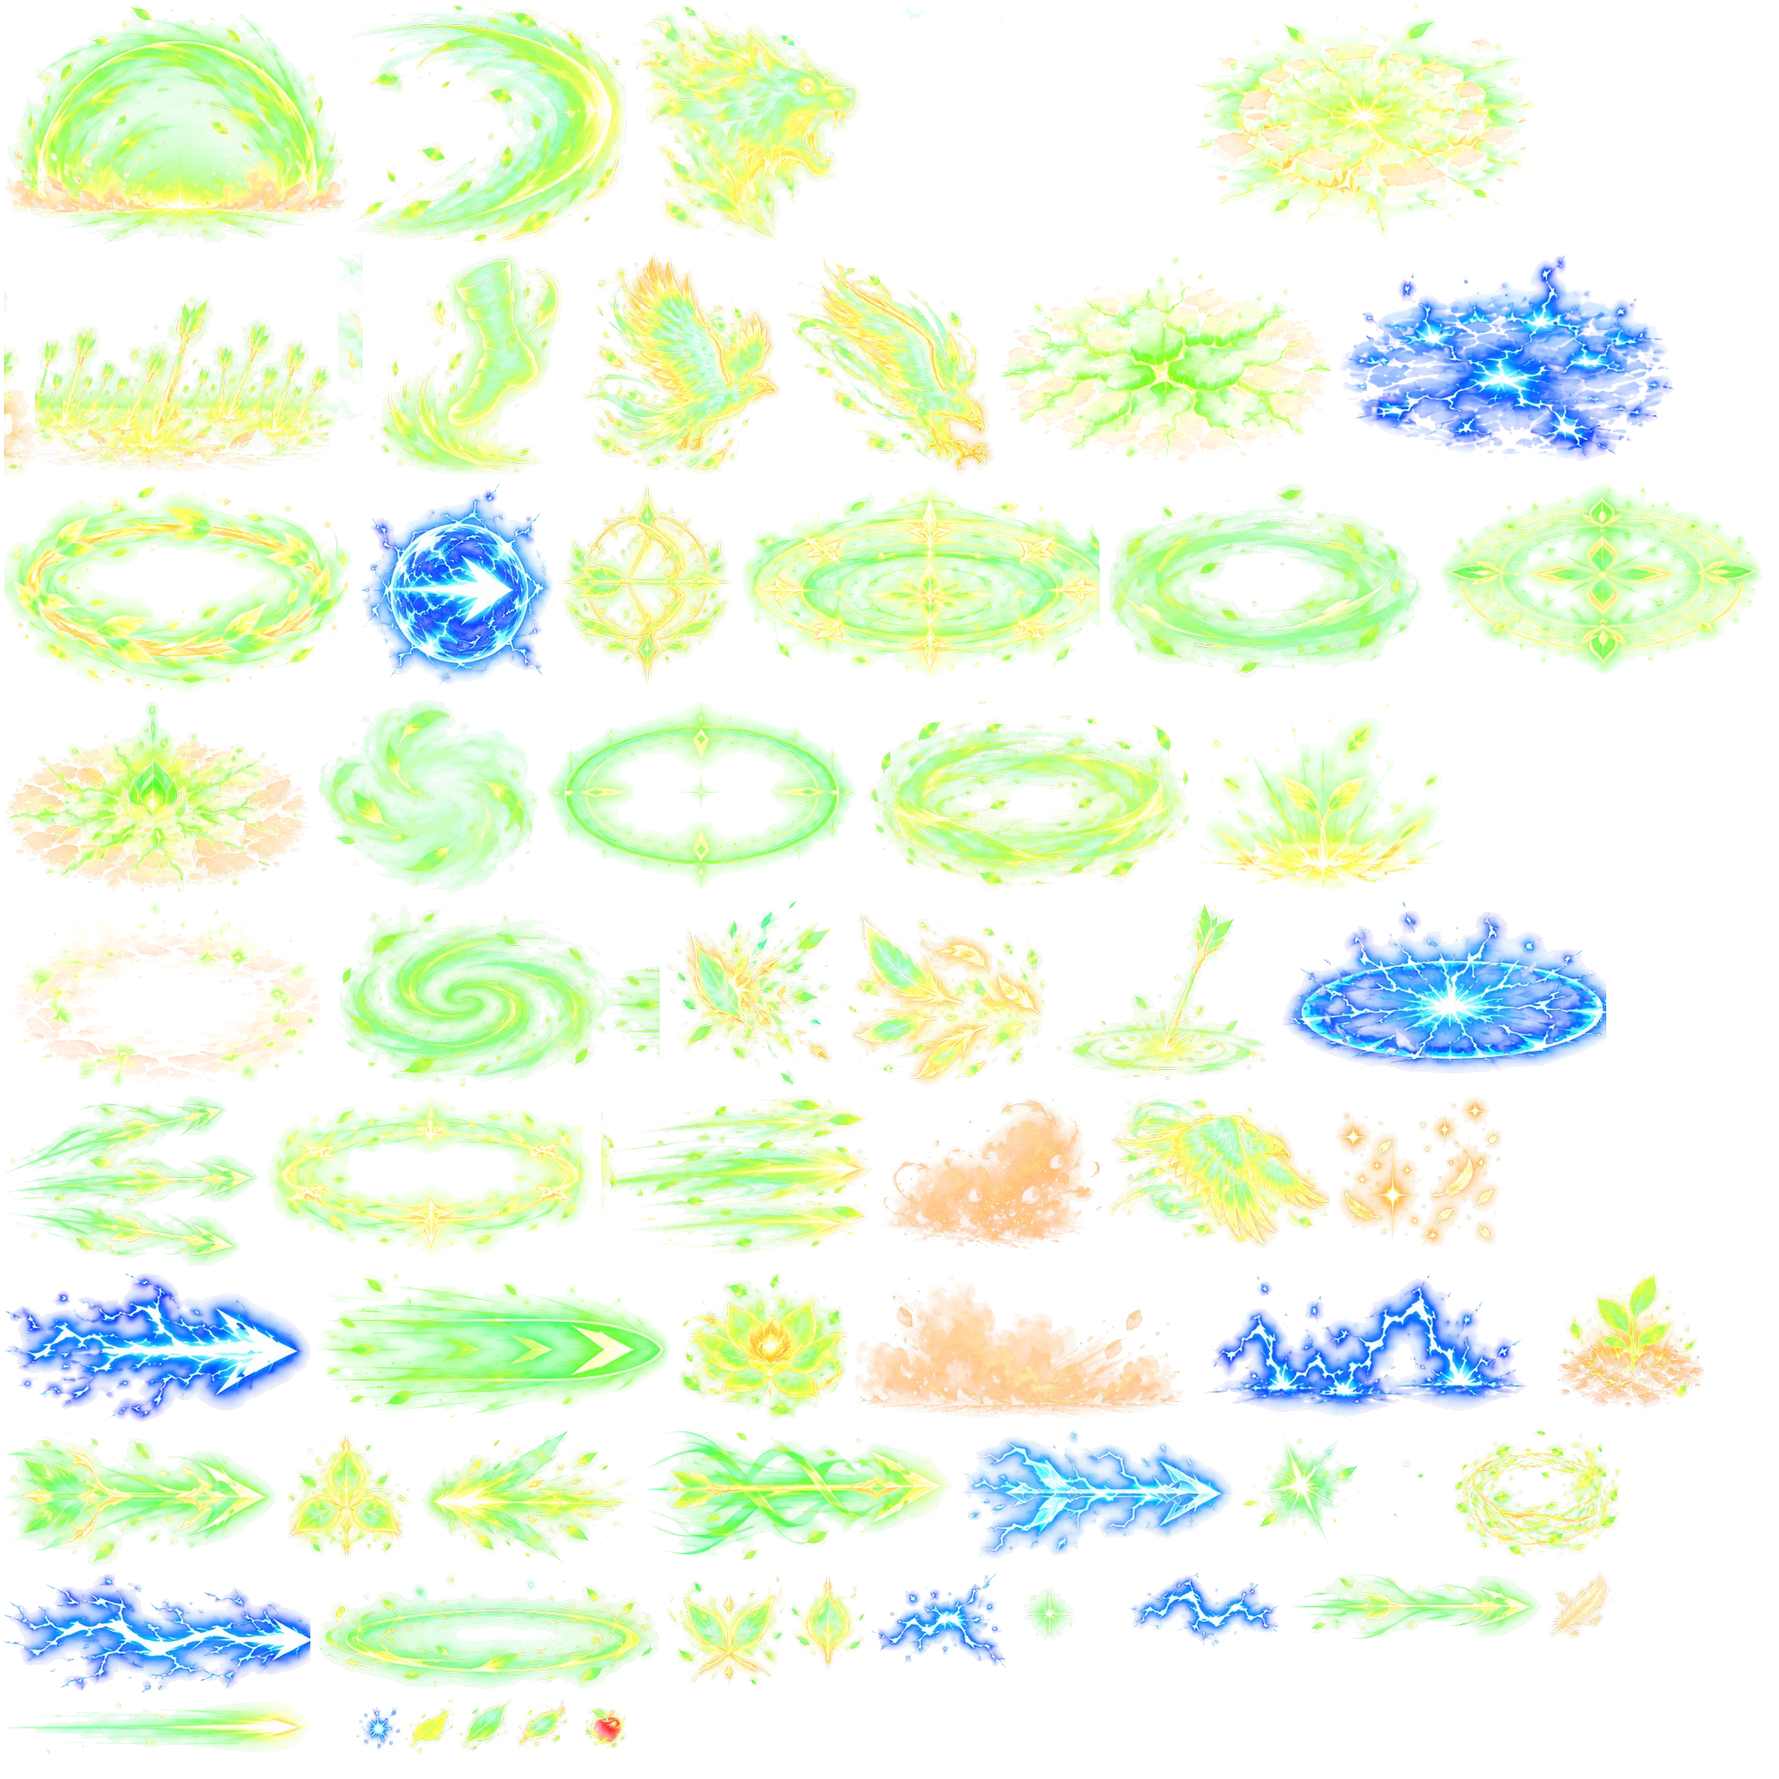
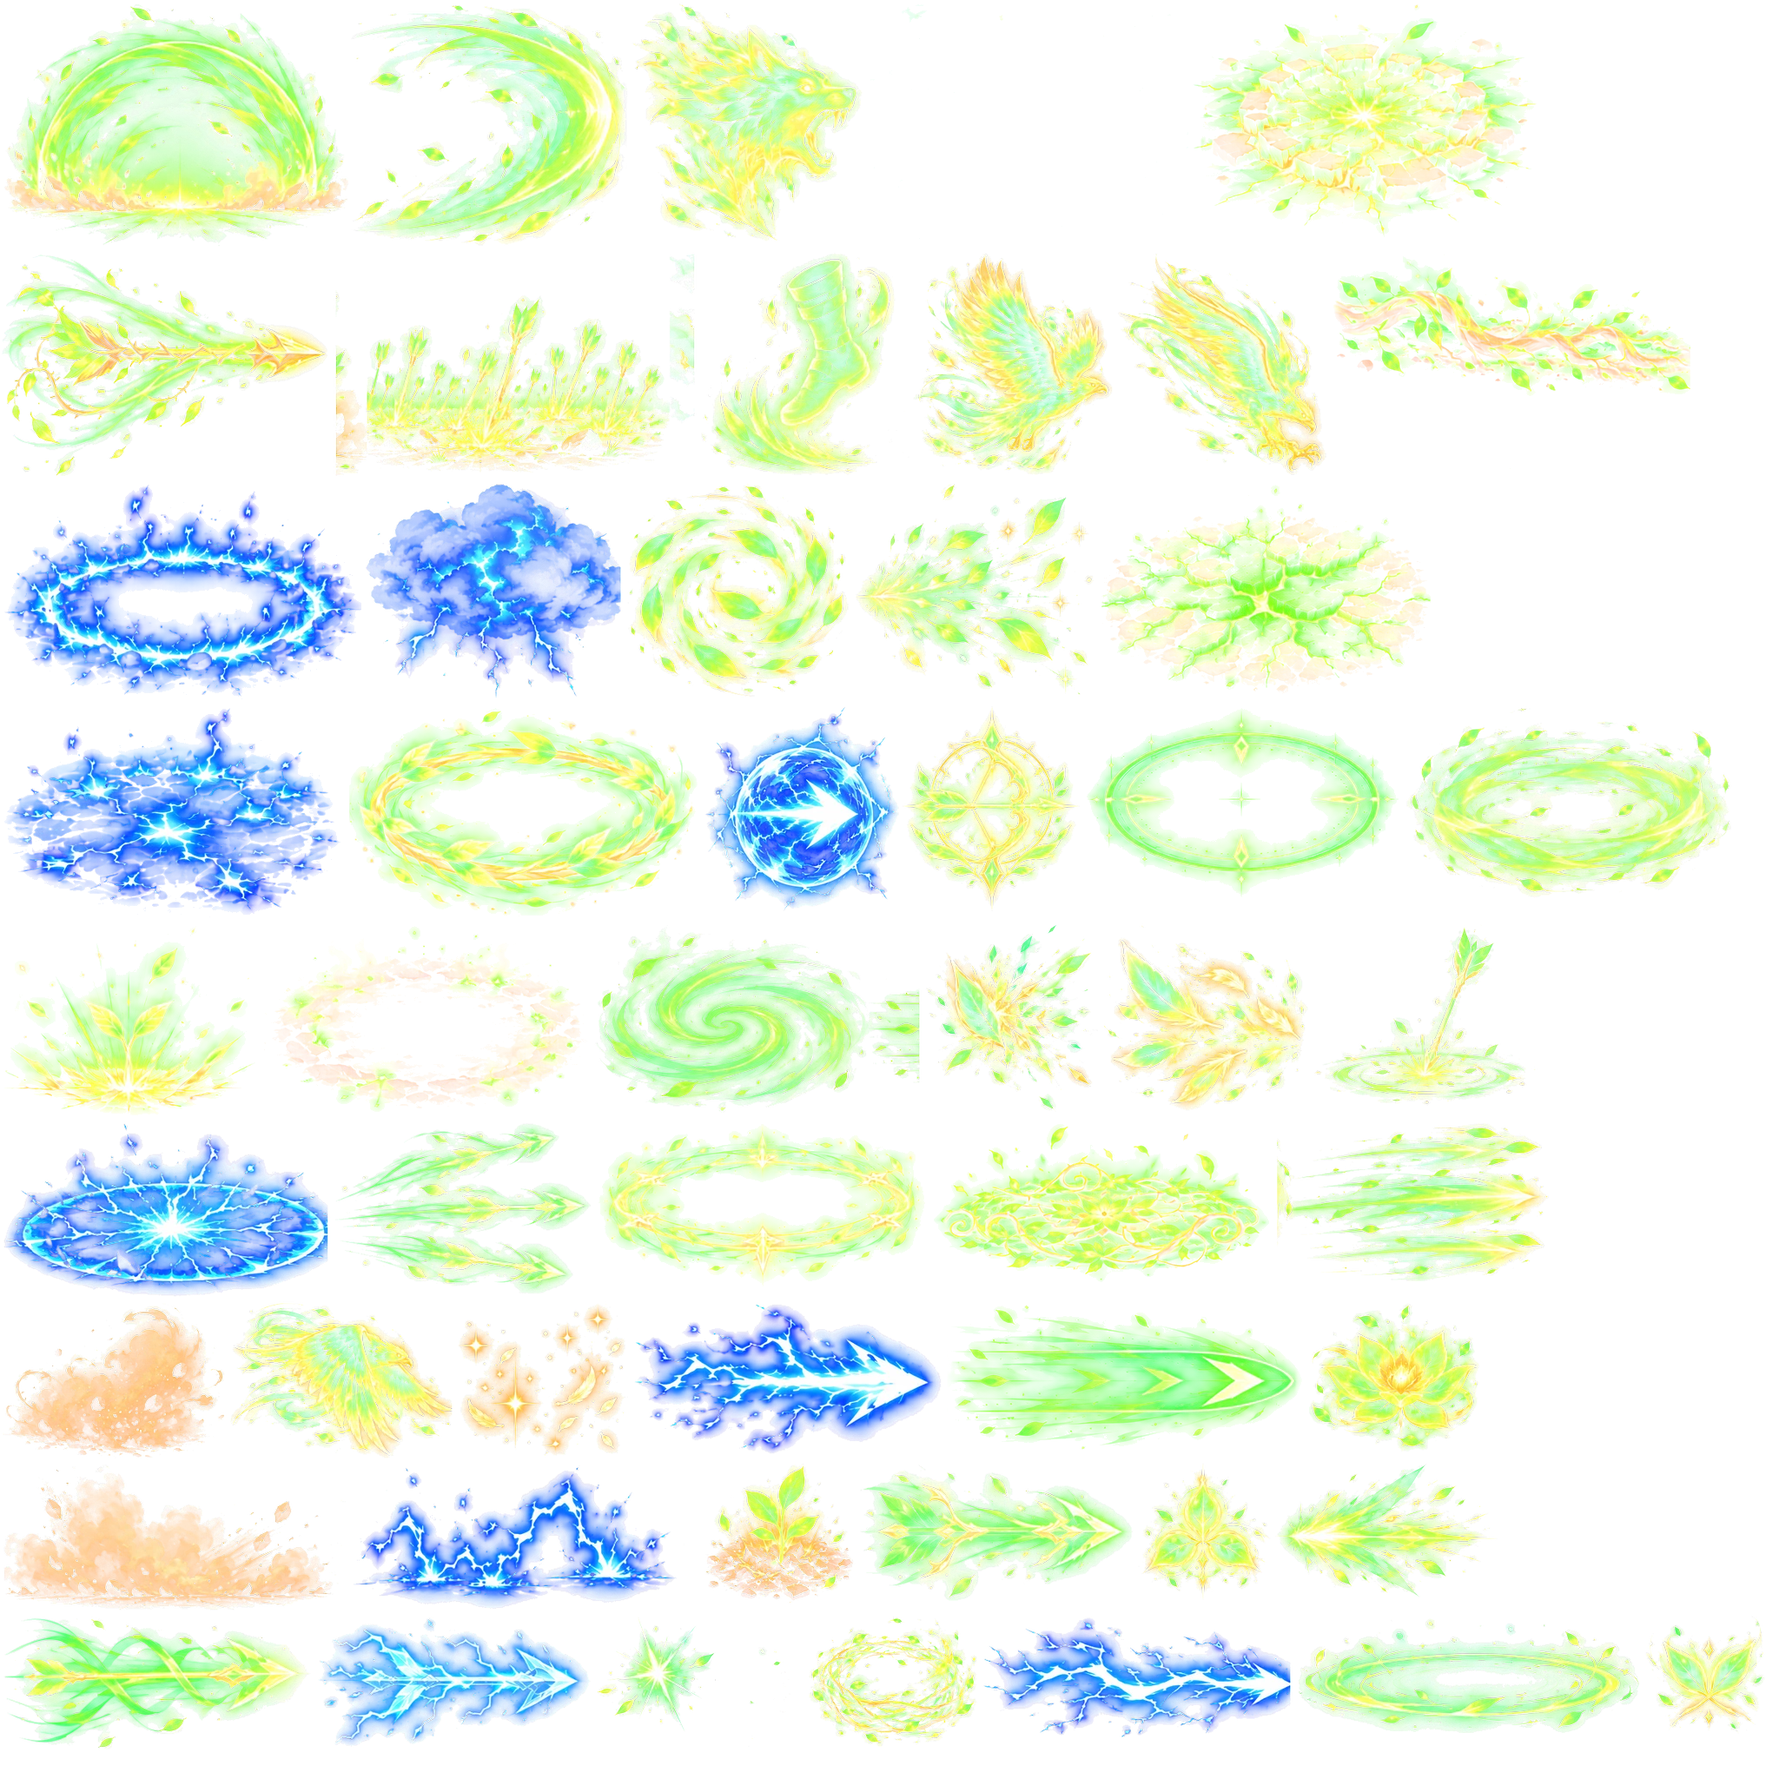
Archer hunting ground: Binding Leaves stay on the floor ~3s as a carpet of leaves that catches a foe landing on it (stood up, vines snap round him, held 2.2s); the Vine Mine catches a landing foe too; Thunder Rain's charged floor throws a foe landing on it back up (once each). Combat: a 'catch' reac
Claude-Session: https://claude.ai/code/session_01VyjNmvWjWSa1nwJcopXfn1

diff --git a/src/skills/FinalKit.ts b/src/skills/FinalKit.ts
@@ -481,7 +481,7 @@ const archer: FinalSkill[] = [
     startup: 220, active: 280, recovery: 160, cooldown: 7000, ground: true, air: false, cover: 'ARCS_OVER_LOW_COVER', move: LOCK,
     dash: { distance: -130, lift: 38 }, // plants the mine and hops back away from it
     placeRange: 260, trap: { radius: 90, lifeMs: 4000, fuseMs: 2000 },
-    hits: [H(0, 0, { kind: 'placed', radius: 90 }, { hardCC: { kind: 'root', ms: 2000, long: true }, stun: 120 }),
+    hits: [H(0, 0, { kind: 'placed', radius: 90 }, { hardCC: { kind: 'root', ms: 2000, long: true }, stun: 120, catch: true }),
       H(0, 32, { kind: 'placed', radius: 110 }, { stun: 700, launch: 150, juggleCost: 30 }, { reachUp: 200, heavy: true })],
     cancelOnHit: [], telegraph: 'ground',
     description: 'A vine mine buried in the floor. Whoever steps on it — a player or a whole pack of monsters — is held, and 2s later it explodes and throws them all very high; untouched, it goes off by itself after 4s.',
@@ -501,7 +501,7 @@ const archer: FinalSkill[] = [
     id: 'rain_of_arrows', cls: 'archer', arenaDmg: 0.8, slot: 9, name: 'Thunder Rain', roles: ['zone', 'extender'], targeting: 'mouseDir',
     startup: 300, active: 1200, recovery: 300, cooldown: 12000, ground: true, air: true, cover: 'IGNORES_COVER', move: LOCK, armor: [300, 900],
     dash: { distance: 0, lift: 150, hang: true },
-    linger: { at: 'aim', offset: 300, startMs: 1000, everyMs: 400, count: 4, radius: 210, maxZ: 60, hit: H(0, 4, { kind: 'circle', radius: 210 }, { stun: 320, float: true, juggleCost: 4, slow: { pct: 30, ms: 500 } }, { reachUp: 60 }) },
+    linger: { at: 'aim', offset: 300, startMs: 1000, everyMs: 80, count: 26, radius: 210, maxZ: 50, once: true, hit: H(0, 6, { kind: 'circle', radius: 210 }, { stun: 320, launch: 110, juggleCost: 10, slow: { pct: 30, ms: 500 } }, { reachUp: 50 }) }, // the charged floor throws whoever lands on it back up (once each)
     hits: [600, 750, 900].map((t, i) => H(t, i === 2 ? 16 : 12, { kind: 'circle', radius: 100, at: 'aimBias', bias: [150, 300, 450][i], floor: true }, { stun: 320, float: true, juggleCost: 10, slow: { pct: 30, ms: 800 } }, { reachUp: 200, heavy: i === 2, useMark: i === 2 ? 'stun' as const : undefined })),
     cancelOnHit: ['quick_shot', 'skyhunters_step'], telegraph: 'line',
     description: 'Leap, hang in the air charging a lightning arrow, then loose three lightning arrows that strike the floor near, middle and far in front of you.',
@@ -526,8 +526,9 @@ const archer: FinalSkill[] = [
     id: 'leaping_arrow', cls: 'archer', slot: 12, name: 'Binding Leaves', roles: ['hardCC', 'setup'], targeting: 'mouseLine',
     startup: 600, active: 300, recovery: 260, cooldown: 14000, ground: true, air: false, cover: 'BLOCKED_BY_COVER', move: LOCK, armor: [0, 900],
     hits: [H(120, 12, { kind: 'line', length: 600, width: 260 }, { hardCC: { kind: 'root', ms: 4000, long: true }, stun: 200 }, { reachUp: 60 })],
+    linger: { at: 'origin', startMs: 260, everyMs: 80, count: 40, radius: 0, maxZ: 50, once: true, line: { length: 600, width: 260 }, hit: H(0, 6, { kind: 'circle', radius: 40 }, { hardCC: { kind: 'root', ms: 2200, long: true }, stun: 300, catch: true }, { reachUp: 50 }) }, // the leaves stay on the floor ~3s: whoever lands on them is caught
     cancelOnHit: ['quick_shot', 'multi_shot', 'rain_of_arrows'], telegraph: 'line',
-    description: 'Charge briefly, then send a wide band of leaves and vines across the floor: every player and monster on it is bound in place for 4s.',
+    description: 'Charge briefly, then send a wide band of leaves and vines across the floor: every player and monster on it is bound in place for 4s, and the leaves stay on the floor about 3s more — a foe that falls onto them is caught on landing and held.',
     relations: ['Charge 2s', 'Bind 4s'],
   }),
   S({

diff --git a/src/scenes/LegacyCourtyardScene.ts b/src/scenes/LegacyCourtyardScene.ts
@@ -287,7 +287,7 @@ export class LegacyCourtyardScene extends Phaser.Scene {
   /** Iron Grip: the foe is held in the fist between the seize and the slam. */
   private gripHeld = false;
   /** Detached lingering strikes (Ground Breaker cracks, Blade Storm phantom blades) of own casts. */
-  private lingers: { run: CastRun; x: number; y: number; next: number; left: number }[] = [];
+  private lingers: { run: CastRun; x: number; y: number; next: number; left: number; struck?: Set<string> }[] = [];
   private cryAura?: Phaser.GameObjects.Image;
   private cryFire?: Phaser.GameObjects.Particles.ParticleEmitter[];
   private cryBody?: Phaser.GameObjects.Sprite;
@@ -1516,7 +1516,7 @@ export class LegacyCourtyardScene extends Phaser.Scene {
           for (let n = 0; n < 2; n++) { const a = (l.left * 2.4 + n * Math.PI) + (Math.random() - 0.5) * 0.9, rr = 70 + Math.random() * (L.radius - 40); this.fx!.risingBlade(l.x + Math.cos(a) * rr, l.y + Math.sin(a) * rr * 0.6, n * 90); }
         }
         else if (l.run.skill.cls === 'gambler') this.fx!.gambleZone(l.run.skill.id, l.x, l.y, L.radius); // (the gambler's floor eruption / thrown-foe bomb: GamblerFx)
-        else if (l.run.skill.id !== 'ground_breaker' && l.run.skill.id !== 'tornado_blade' && l.run.skill.id !== 'rain_of_arrows' && l.run.skill.id !== 'titans_verdict') this.fx!.crack(l.x, l.y, L.radius); // (Thunder Rain: the charged floor is drawn by ArcherFx) // the quake has one steady rotating ring instead of per-tick sparks; the tornado is its own picture
+        else if (l.run.skill.id !== 'ground_breaker' && l.run.skill.id !== 'tornado_blade' && l.run.skill.id !== 'rain_of_arrows' && l.run.skill.id !== 'titans_verdict' && l.run.skill.id !== 'leaping_arrow') this.fx!.crack(l.x, l.y, L.radius); // (Thunder Rain: the charged floor is drawn by ArcherFx) // the quake has one steady rotating ring instead of per-tick sparks; the tornado is its own picture
         if (l.run.skill.id === 'ground_breaker' && l.run.own && this.dead < 0) { // the quake mends the warrior: +2 HP per pulse
           const max = this.maxHpNow(), before = this.playerHP;
           this.playerHP = Math.min(max, this.playerHP + 2);
@@ -1527,7 +1527,10 @@ export class LegacyCourtyardScene extends Phaser.Scene {
         const zr = { ...l.run, origin: { x: l.x, y: l.y, z: 0 }, zone: true } as CastRun; // hits come from the zone, not the caster
         for (const t of this.targetsFor(l.run)) {
           if (!t.alive || t.invulnerable || t.id === l.run.attackerId) continue;
-          if (Math.hypot(t.x - l.x, t.y - l.y) > L.radius + t.radius || t.z > L.maxZ) continue;
+          if (L.line) { const a = l.run.aim, ox = t.x - l.x, oy = t.y - l.y, al = ox * a.x + oy * a.y, side = Math.abs(-ox * a.y + oy * a.x);
+            if (al < -t.radius || al > L.line.length + t.radius || side > L.line.width / 2 + t.radius || t.z > L.maxZ) continue; }
+          else if (Math.hypot(t.x - l.x, t.y - l.y) > L.radius + t.radius || t.z > L.maxZ) continue;
+          if (L.once) { const st = (l.struck ??= new Set()); if (st.has(t.id)) continue; st.add(t.id); this.fx?.trapCatch(l.run.skill.id, { x: t.x, y: t.y, z: t.z }); }
           const at = { x: t.x, y: t.y, z: t.z + 40 };
           if (l.run.own) { if (t.kind === 'enemy') this.applyToPve(zr, L.hit, t, at); else if (t.id === BOT_ID) this.applyToBot(zr, L.hit, t, at); } // remote players resolve your zone on their side
           else if (t.id === this.localId) this.applyRemoteHitToSelf(zr, L.hit, 0, at); // another player's / the knight's zone on you

diff --git a/src/skills/ArcherFx.ts b/src/skills/ArcherFx.ts
@@ -418,6 +418,9 @@ export class ArcherFx {
         if (k % 2 === 0) this.floor('root_tangle', cx, cy, rnd(70, 100), 4000 - dl, { delay: dl + 60, run: r, depth: GROUND + 2.4, s: kf([0, 0.1], [0.15, 1, out3]), a: kf([0, 0], [0.08, 0.7], [0.9, 0.7], [1, 0]) });
         this.later(dl, () => this.leaves(cx, cy - 4, 3, 50, { life: 900 }), r);
       }
+      // the leaves stay on the floor as a carpet (about 3s): whoever lands on it is caught
+      for (let k = 0; k < 4; k++) { const d = 75 + k * 150, cx = o.x + a.x * d, cy = o.y + a.y * d; if (!clearLine(o.x, o.y, cx, cy, 30)) break;
+        this.floor('leaf_carpet', cx, cy, 230, 3400, { delay: (k / 4) * grow, angle: lv.ang, depth: GROUND + 2.2, s: kf([0, 0.4], [0.08, 1, out3]), a: kf([0, 0], [0.06, 0.9], [0.85, 0.8], [1, 0]) }); }
       this.later(grow * 0.5, () => this.shake(r, 120, 0.002), r);
     }, r);
   }
@@ -552,6 +555,20 @@ export class ArcherFx {
     this.ctx.scene.tweens.add({ targets: im, alpha: 1, duration: 300 });
     const life = L ? L.startMs + L.everyMs * L.count : 20000;
     this.hawks.set(r.attackerId, { until: this.ctx.scene.time.now + life, t: 0, px: q.x, py: q.y - q.z - 110, vx: 0, vy: 0, wx: q.x, wy: q.y - q.z - 110, next: 0, face: sideOf(r), dive: null, im });
+  }
+  /** Leaves on the floor snap round a foe that lands on them; the charged floor strikes one that lands on it. */
+  trapCatch(skillId: string, at: V3): void {
+    if (!this.ready) return;
+    const x = at.x, y = at.y;
+    if (skillId === 'leaping_arrow') {
+      this.spr({ name: 'vine_snare', x, y: y + 8, oy: 0.97, depth: y + 3, w: 150, life: 2200, glow: 0.25, sy: kf([0, 0.1], [0.08, 1.08, out3], [0.15, 1]), a: kf([0, 1], [0.85, 1], [1, 0]) }); // vines snap up round him
+      this.spr({ name: 'vine_grab', x, y: y - 34, depth: y + 4, w: 96, life: 2200, glow: 0.2, sx: kf([0, 1.6], [0.08, 1, out3]), a: kf([0, 0], [0.05, 1], [0.85, 1], [1, 0]) }); // and coil tight round the body
+      this.floor('shock_ring', x, y, 140, 360, { add: true, s: kf([0, 0.4], [1, 1.2, out3]), a: kf([0, 1], [1, 0]) });
+      this.leaves(x, y - 20, 10, 40, { up: 120, life: 700 });
+    } else if (skillId === 'rain_of_arrows') {
+      this.spr({ name: 'strike', x, y: y + 8, oy: 0.97, depth: y + 3, w: 140, h: 360, life: 260, add: true, glow: 0.4, sy: kf([0, 0.2], [0.15, 1.05, out3]), a: kf([0, 1], [1, 0, inQ]) });
+      this.spr({ name: 'elec_burst', x, y: y - 30, depth: y + 4, w: 150, add: true, life: 240, sx: kf([0, 0.4], [0.3, 1.1, out3]), sy: kf([0, 0.4], [0.3, 1.1, out3]), a: kf([0, 1], [1, 0, inQ]) });
+    }
   }
   hawkDive(id: string, to: V3): void { const h = this.hawks.get(id); if (h) h.dive = { x: to.x, y: to.y - to.z - 30, d: to.y, t: 0 }; }
   private stepHawks(ms: number): void {

diff --git a/src/skills/SkillTypes.ts b/src/skills/SkillTypes.ts
@@ -30,6 +30,8 @@ export type HitShape =
 export interface Reaction {
   /** A foe in the air is not held up by it (he keeps falling): streams and pokes that should not juggle. */
   drop?: boolean;
+  /** Caught near the floor (falling, landing or lying): stood up at once and held — the combo goes on (a trap on the floor). */
+  catch?: boolean;
   /** Ordinary combo hit-stun (soft, repeatable, scaled by combo index). */
   stun?: number;
   /** Knockback distance (world px, away from the hit origin). */
@@ -106,7 +108,9 @@ export interface FinalSkill {
   /** Persistent zone / trap lifetime after active (ms). */
   zoneMs?: number;
   /** Detached lingering hits (cracks / summons): keep striking after the caster moves on or cancels. */
-  linger?: { at: 'origin' | 'aim' | 'caster'; offset?: number; startMs: number; everyMs: number; count: number; radius: number; maxZ: number; hit: HitEvent };
+  linger?: { at: 'origin' | 'aim' | 'caster'; offset?: number; startMs: number; everyMs: number; count: number; radius: number; maxZ: number; hit: HitEvent;
+    /** each foe is struck by it once (a trap on the floor that catches whoever lands on it) */ once?: boolean;
+    /** a band along the aim from the origin instead of a circle */ line?: { length: number; width: number } };
   /** Dash passes through bodies and turns to face the target behind. */
   through?: boolean;
   /** Uses in a row before the full cooldown. */

diff --git a/src/combat/Combat.ts b/src/combat/Combat.ts
@@ -435,6 +435,11 @@ export class CombatBody {
       this.levityUntil = Math.max(this.levityUntil, now + R.levity); this.push = null; out.rx = out.rx ?? 'levity'; out.rxMs = R.levity;
       if (this.arena) { const ms = this.hard.apply('stun', R.levity, now, this.pvp, true); if (ms > 0) out.ccMs = Math.max(out.ccMs, ms); } // the arena: floating, it cannot act either (BREAK still frees it)
     }
+    if (R.catch && this.state !== 'getup' && this.state !== 'dead' && (this.state === 'launched' || this.state === 'knockdown' || !this.kin.grounded) && this.kin.z - this.kin.supportZ < 60) {
+      // a trap on the floor catches a falling / fallen body: on its feet at once, held — and, as in DFO, the hold eases the air gauge
+      const kk = this.kin; kk.z = kk.supportZ; kk.vz = 0; kk.grounded = true; this.bounce = false;
+      this.state = 'hitstun'; this.kdPhase = 'fall'; this.stateEnd = now + (R.stun ?? 300); this.gauge.air *= 0.5;
+    }
     this.lastHitAt = now;
     const R0: Reaction = hit.reaction;
     const downNow = this.state === 'knockdown' && this.kdPhase !== 'fall' && this.kin.grounded;

diff --git a/src/skills/SkillFx.ts b/src/skills/SkillFx.ts
@@ -2034,6 +2034,8 @@ export class SkillFx {
   }
 
   /** Spirit Hawk dive: the hawk swoops onto the foe and back. */
+  /** A floor trap of a lingering zone caught someone (once each): its own burst there. */
+  trapCatch(skillId: string, at: V3): void { if (this.arch.ready) this.arch.trapCatch(skillId, at); }
   hawkDive(attackerId: string, to: V3): void { if (this.arch.ready) { this.arch.hawkDive(attackerId, to); return; } const h = this.hawks.get(attackerId); if (h) h.dive = { to, t: 0 }; }
   /** Hunter's Mark: leaves over a foe's head / spent in a burst (ArcherFx). */
   /** Gambler: charged cards stuck in a target / set off by a staff blow / the Hand over his shoulder / his buffs. */

diff --git a/tools/skills/kit.py b/tools/skills/kit.py
@@ -94,6 +94,7 @@ ARCHER_SHEETS = {
     'a13.png': grid(4, 2, ['sky_rune', 'volley', 'gold_arrow', 'sky_pillar', 'gold_blast', 'arrow_field', 'sky_clouds', 'gold_ring'], [440, 400, 440, 460, 400, 420, 420, 440]),
     'a14.png': grid(4, 2, ['tree_1', 'tree_2', 'tree_3', 'tree_4', 'vine_burst', 'vine_spiral', 'hawk_strike', 'leaf_ring'], [300, 380, 440, 480, 420, 420, 400, 420]),
     'a15.png': grid(4, 2, ['rise_arrow', 'muzzle_fan', 'sonic_boom', 'spiral_arrow', 'power_aura', 'arrow_halo', 'power_flash', 'dive_trail'], [420, 360, 320, 360, 420, 400, 320, 400]),
+    'a16.png': grid(4, 2, ['vine_arrow', 'vine_whip', 'vine_grab', 'leaf_carpet', 'vine_snare', 'tree_hit', 'talon_slash', 'slam_burst'], [380, 440, 380, 440, 400, 400, 380, 420]),
     'a9.png': [('bow', (0, 40, 390, 480), 300, 'box')] + grid(4, 2, [None, 'bow_drawn', 'aura_gold', 'aura_green', 'emblem', 'pillar', 'sparkles', 'rain_ring'], [300, 300, 300, 300, 240, 380, 200, 300]),
 }
 PROFILES = {'samurai': (G + 'tools/skills/gpt/kit/', G + 'public/assets/final/skills/samurai/kit/', None),
